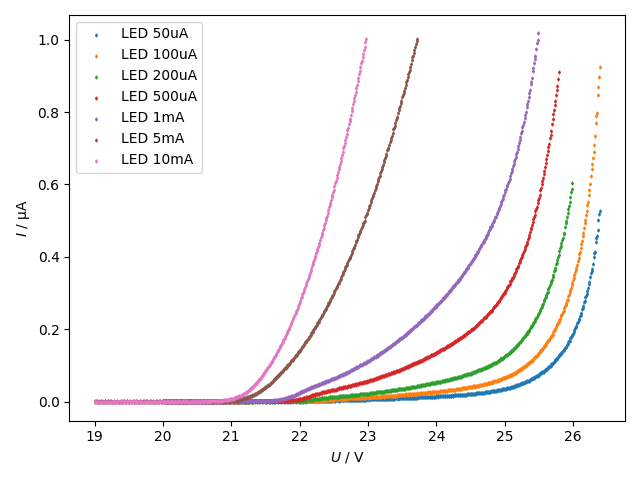
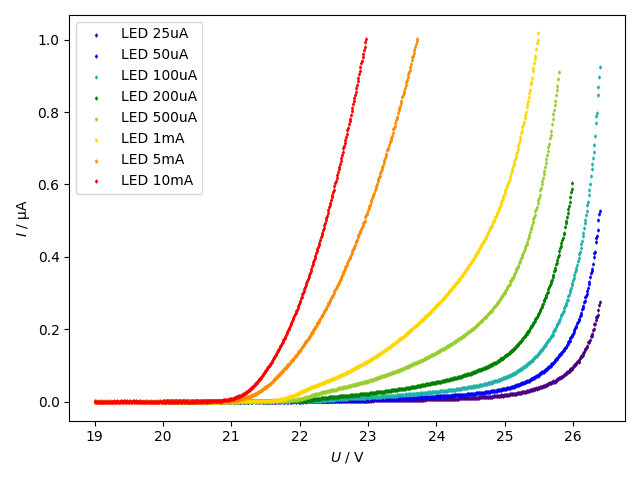
one more IV curve!!

diff --git a/dataAnalz/scatter.py b/dataAnalz/scatter.py
@@ -1,16 +1,17 @@
 import readSourceMeterDataFine as rsf
 import matplotlib.pyplot as plt
+import matplotlib.cm as cm
 import numpy as np
 from sympy import Symbol
 
 #Write all different laserIntensities to list and same amount of colors for plotting. 'today' needs to be changed (different file locations for each day)
 
  
-laserIntensity = ["50uA", "100uA", "200uA","500uA", "1mA", "5mA", "10mA"]
+laserIntensity = ["25uA", "50uA", "100uA", "200uA","500uA", "1mA", "5mA", "10mA"]
 
 
 
-#colours = ["indigo","blue","lightseagreen","green","gold", "darkorange", "red"]
+colours = ["indigo","blue","lightseagreen","green","yellowgreen","gold", "darkorange", "red"]
 
 #CHANGE PATH NAME BY CHANGING DATE
 today = "15032024"
@@ -32,10 +33,10 @@ for amps in laserIntensity:
 
 i = 0
 for key1, key2 in zip(curdic, voltdic):
-    plt.scatter(voltdic[key2], curdic[key1], s=2, marker="d", label = str(key1))
+    plt.scatter(voltdic[key2], curdic[key1], s=2, marker="d", c=colours[i], cmap="inferno", label = str(key1))
     i+=1
 
-plt.set_cmap("inferno")
+
 plt.xlabel("$U$ / V")
 plt.ylabel("$I$ / $\\mathrm{\\mu}$A")
 plt.legend()
